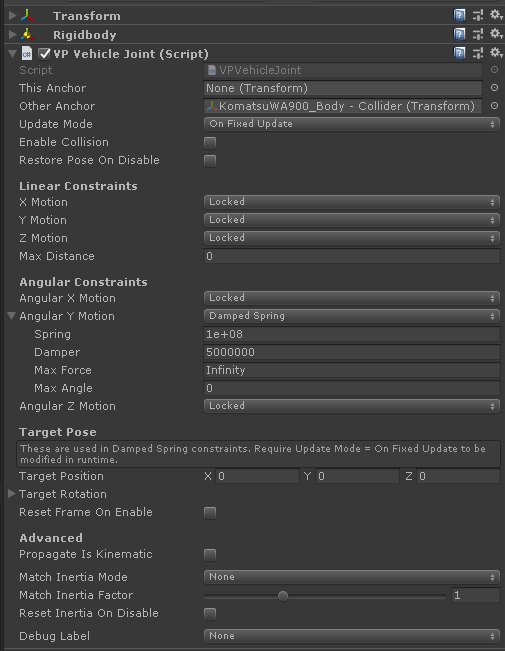
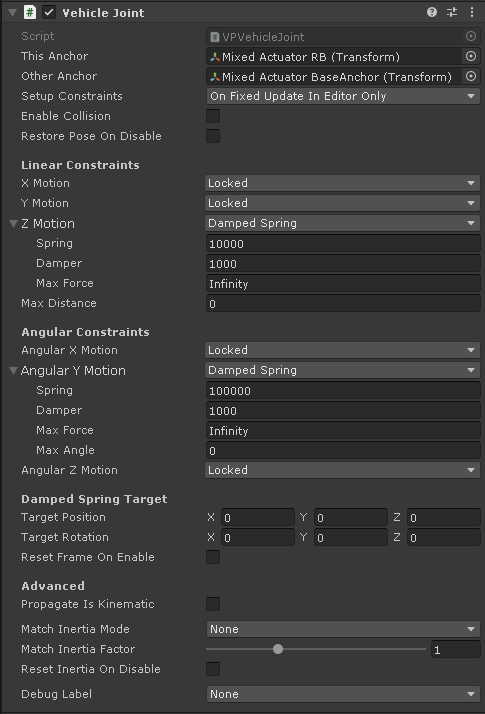
Updated documentation for VPVehicleJoint

diff --git a/docs/components/vehicle-joint.md b/docs/components/vehicle-joint.md
@@ -1,40 +1,33 @@
 # VPVehicleJoint
 
 Encapsulates a [ConfigurableJoint](https://docs.unity3d.com/Manual/class-ConfigurableJoint.html)
-component in a comprehensive and easy to use wrapper suitable to use in multi-part and articulated
-vehicles.
-
-VPVehicleJoint should be in the same GameObject as the Rigidbody that is to be joined to another one.
-For example, an excavator arm should have a VPVehicleJoint beside the Rigidbody of the Arm, and
-configure Other Anchor to the Transform in the excavator's body in the position of the arm's hinge.
-
-Unlike ConfigurableJoint, VPVehicleJoint may be enabled and disabled anytime in runtime.
+component in a comprehensive wrapper suitable to use in multi-part and articulated
+vehicles. Unlike ConfigurableJoint, VPVehicleJoint may be enabled and disabled in runtime.
 
 ![Vehicle Physics Pro - VPVehicleJoint inspector](/img/components/vpp-vehicle-joint-inspector.png){: .clickview }
 
 This Anchor, Other Anchor
-:	Define the junction point in each object to be joined. When using position constraints these
-	Transforms will be enforced to have the same world position. It's expected these transforms to
-	be in the same position (or very close) when the VPVehicleJoint component is enabled. Otherwise
-	they may be suddenly moved by the joint constraints.
+:	Transforms (GameObjects) belonging to the two different rigidbodies to be attached.
 
-	- This Anchor: Transform in the hierarchy of the Rigidbody this VPVehicleJoint belongs to.
-		Optional, will use the VPVehicleJoint's Transform if not specified.
-	- Other Anchor: Transform in the hierarchy of the other Rigidbody to be joined.
+	- This Anchor (optional): Transform in the hierarchy of the Rigidbody ("This") the VPVehicleJoint component
+		belongs to. Uses the component's Transform if not specified.
+	- Other Anchor: Transform in the hierarchy of the other Rigidbody ("Other") to attach this rigidbody to.
 
-	This Anchor and Other Anchor must belong to different Rigidbodies (i.e. different non-null
-		result for GetComponentInParent<Rigidbody>()). Both Rigidbodies may be in the same hierarchy,
-		or even parented.
+	It's expected the anchors to be in the same position (or very close) when the VPVehicleJoint
+	component is enabled. Otherwise they may be suddenly moved by the joint constraints.
 
-Update Mode
-:	When to update the underlying ConfigurableJoint properties.
+	This Anchor and Other Anchor must be in the hierarchy of different Rigidbodies. These Rigidbodies
+	may be parented or not.
+
+Setup Constraints
+:	When to update the constraints and their parameters:
 
 	- On Enable: once when the VPVehicleJoint component is enabled.
-	- On Fixed Update: every physics step. Use this when the component's parameters (constraints,
-		target position or rotation, etc) are expected to change in runtime.
+	- On Fixed Update: every physics step. Use this when the constraints or their parameters may change
+	 	in runtime.
 	- On Fixed Update In Editor Only: Works as On Fixed Update in the editor but as On Enable in
-		builds. Useful for finding the proper values during development in the Editor, but once set
-		they won't change in runtime.
+		builds. Useful for fine tuning the constraints during development in the Editor, but they will be
+		optimized on builds.
 
 Enable Collision
 :	Allows collisions between the colliders of the joined bodies.
@@ -45,99 +38,89 @@ Restore Pose On Disable
 
 ### Linear Constraints
 
-When configured, these enforce the position of the anchors to be in the same world position. Different
-modes may be configured per local axis.
+Enforce the position of the anchors to be in the same world position. Constraints are local to "This"
+Rigidbody. Different modes may be configured per local axis:
 
 Locked
 :	Enforces the position to stay at the anchor in the given local axis.
 
 Free
-:	Position is free to move along the given local axis with respect to the anchor.
+:	Position is free to move along the given local axis.
 
 Damped Spring
 :	Enforces the position to stay at the anchor in the given local axis by applying the specified
  	spring and damper values.
 
 	In this mode Target Position may be used to dynamically move the Rigidbody the given offset in
-	local coordinates with respect to the anchor. This requires Update Mode = On Fixed Update.
+	local coordinates with respect to the anchor.
 
 	If the force required to apply the constraint exceeds Max Force then the joint breaks. Use the
 	standard event method [OnJointBreak](https://docs.unity3d.com/ScriptReference/Joint.OnJointBreak.html)
 	to detect and handle broken joints.
 
 Max Distance
-:	Limits the maximum distance the Rigidbody can move from the anchor point in Free and Damped
-	Spring modes. No effect if 0.
+:	Maximum distance the Rigidbody can move from the anchor point in Free and Damped Spring modes.
+	0 = unlimited.
 
 ### Angular Constraints
 
-When configured, these enforce the local rotation of the Rigidbody to remain unchanged since the
-VPVehicleJoint component is enabled. Different modes may be configured per local axis.
+Enforce the local rotation of "This" Rigidbody with respect to the "Other" Rigidbody to remain constant.
 
 Locked
-:	Prevents the local rotation to change in the given local axis.
+:	Preserves the existing rotation between the rigidbodies around the given axis local relative to "This"
+	Rigidbody.
 
 Free
-:	The Rigidbody is free to rotate around the given local axis.
+:	"This" Rigidbody is free to rotate around the given local axis.
 
 Damped Spring
-:	Prevents the Rigidbody to rotate at the given local axis by applying the specified spring and
-	damper values.
+:	Enforces the rotation of "This" Rigidbody relative to the "Other" Rigidbody around the given axis to
+	stay at the value given by Target Rotation by applying the specified spring and damper values.
 
-	In this mode Target Rotation may be used to dynamically rotate the Rigidbody in local
-	coordinates. This requires Update Mode = On Fixed Update.
+	Modify Target Rotation to dynamically rotate "This" Rigidbody around its local axes relative to the
+	"Other"	Rigidbody.
 
-	Max Angle limits the maximum rotation angle from the initial pose. No effect if 0.
+	Max Angle limits the rotation angle in the given axis from the original rotation. No effect if 0.
 
 	If the torque required to apply the constraint exceeds Max Force then the joint breaks. Use the
 	standard event method [OnJointBreak](https://docs.unity3d.com/ScriptReference/Joint.OnJointBreak.html)
 	to detect and handle broken joints.
 
-### Target Pose (Damped Spring)
+### Damped Spring Target
 
-These properties are used by constraints in Damped Spring mode to modify the position and/or
-rotation in runtime. These require Update Mode = On Fixed Update to have effect.
+Used by constraints in Damped Spring mode to modify the position and/or rotation in runtime.
 
 Target Position
-:	Offset from the anchor position in local coordinates.
+:	Offset from the anchor position in coordinates local to "This" Rigidbody.
 
 Target Rotation
-:	Desired local rotation.
+:	Local rotation of "This" Rigidbody with respecto to the "Other" Rigidbody.
 
 Reset Frame On Enable
-:	Resets Target Position to 0 and Target Rotation to Identity when enabling VPVehicleJoint.
+:	Reset Target Position to 0 and Target Rotation to Identity when enabling VPVehicleJoint.
 
 ### Advanced
 
 Propagate Is Kinematic
-:	Applies the Is Kinematic flag from a parent Rigidbody to this one.
+:	Applies the Is Kinematic flag from the "Other" Rigidbody to "This" one.
 
 Match Inertia Mode
-:	When configured, modifies the inertia of this Rigidbody to be in a similar order of magnitude
-	of the connected Rigidbody. This improves the joint stability when the connected masses are
-	very different without having to increase the physics rate.
+:	When configured, modifies the inertia of "This" Rigidbody to be in a similar order of magnitude
+	of the "Other" Rigidbody. This improves the joint stability when the connected masses are very different
+	without having to increase the physics rate.
 
-	- Connected Masses: Make the magnitude of this inertia proportional to the ratio of the
-		connected masses.
-	- Connected Inertia: Make the magnitude of this inertia a ratio of the magnitude of the
-		connected inertias.
+	- Connected Masses: Make the magnitude of this inertia proportional to the ratio of the connected masses.
+	- Connected Inertia: Make the magnitude of this inertia a ratio of the magnitude of the connected inertias.
 
 Match Inertia Factor
 :	Multiply the inertia by this factor after calculating the new inertia.
 
 Reset Inertia On Disable
 :	Calls [Rigidbody.ResetInertiaTensor()](https://docs.unity3d.com/ScriptReference/Rigidbody.ResetInertiaTensor.html)
-	to restore the inertia when VPVehicleJoint is disabled.
-
-Articulation mode & Mass Scale & Debug Disable Mass Scale Force
-:	Do not use, will be deprecated. It was an attempt to use [Joint.connectedMassScale](https://docs.unity3d.com/ScriptReference/Joint-connectedMassScale.html)
-	and avoid the side effects of the increased mass by applying counter-gravity forces.
-	Joint.connectedMassScale doesn't seem to make any sense at all - it just multiplies the mass
-	by the scale, exactly as if it's multiplied in Rigidbody.mass, with the increased weight,
-	inertia, etc.
+	to restore the inertia in "This" Rigidbody when VPVehicleJoint is disabled.
 
 Debug Label
-:	Shows the reported parameters of the Joint in runtime.
+:	Shows the reported values of the Joint in runtime as a gizmo label.
 
 
 
